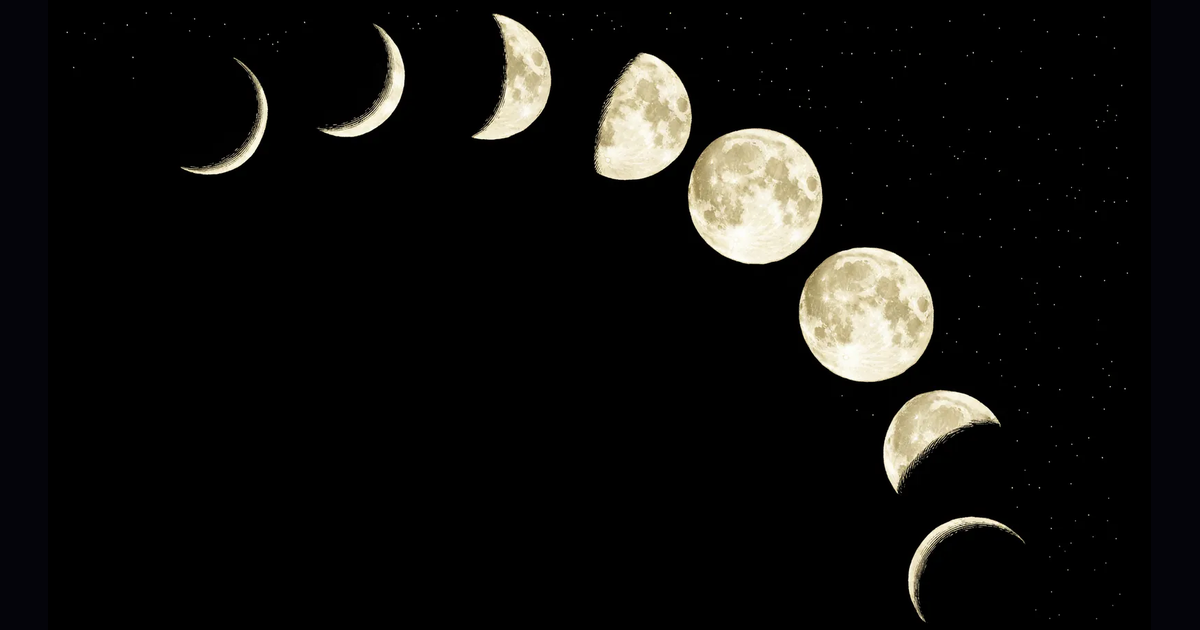
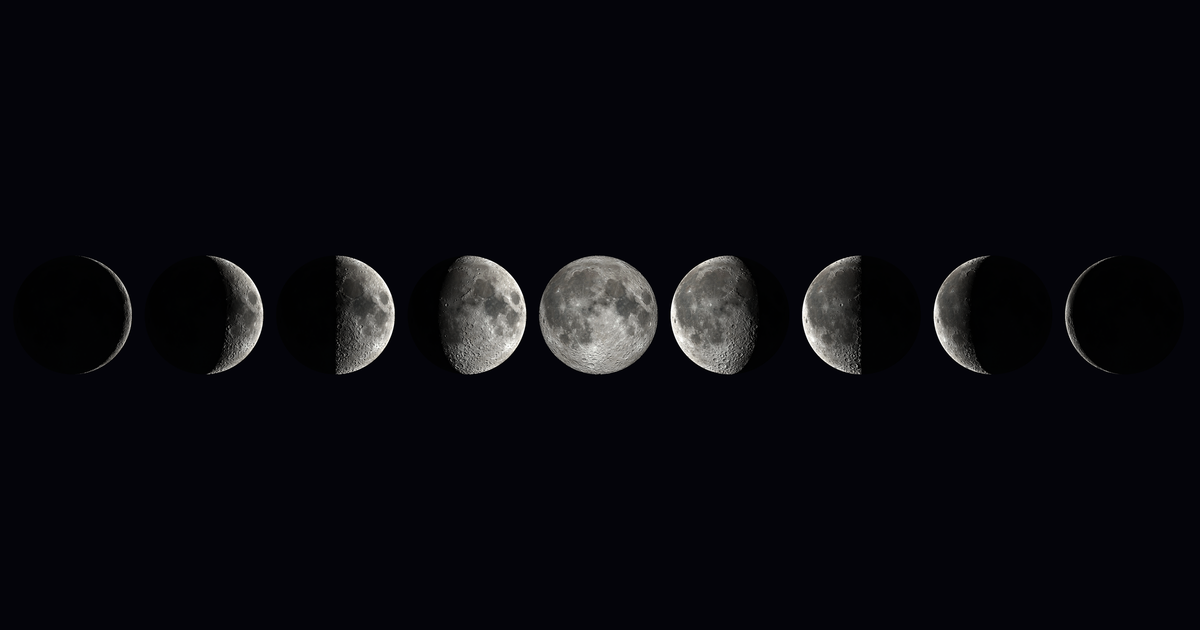
Moon phases cover: real phases rendered from LRO data instead of AI engraving; alt text in 8 languages

diff --git a/articles/moon-phases/ru.md b/articles/moon-phases/ru.md
@@ -7,7 +7,7 @@ description: Почему Луна бывает серпом, половинко
 author: Aurelia.Lab
 updated: 2026-11-16
 cover: cover.webp
-coverAlt: Фазы Луны от тонкого растущего серпа до полнолуния и обратно, гравюра в стиле старинного атласа
+coverAlt: Фазы Луны от растущего серпа через полнолуние до убывающего серпа, отрисованные Moonplan по данным камеры LRO
 figures:
   - id: phases-orbit
     kind: svg

diff --git a/articles/moon-phases/fr.md b/articles/moon-phases/fr.md
@@ -7,7 +7,7 @@ description: Pourquoi la Lune apparaît en croissant, en demi-disque ou en disqu
 author: Aurelia.Lab
 updated: 2026-11-16
 cover: cover.webp
-coverAlt: Les phases de la Lune, du fin croissant à la pleine Lune et retour, gravées dans le style d'un ancien atlas céleste
+coverAlt: Les phases de la Lune, du premier croissant à la pleine Lune puis au dernier croissant, rendues par Moonplan à partir des données de la caméra de LRO
 figures:
   - id: phases-orbit
     kind: svg

diff --git a/articles/moon-phases/de.md b/articles/moon-phases/de.md
@@ -7,7 +7,7 @@ description: Warum der Mond als Sichel, als Halbkreis und als volle Scheibe ersc
 author: Aurelia.Lab
 updated: 2026-11-16
 cover: cover.webp
-coverAlt: Die Phasen des Mondes von der schmalen zunehmenden Sichel bis zum Vollmond und zurück, gestochen im Stil eines alten Sternatlas
+coverAlt: Die Mondphasen von der zunehmenden Sichel über den Vollmond bis zur abnehmenden Sichel, von Moonplan aus Daten der LRO-Kamera berechnet
 figures:
   - id: phases-orbit
     kind: svg

diff --git a/articles/moon-phases/it.md b/articles/moon-phases/it.md
@@ -7,7 +7,7 @@ description: Perché la Luna appare come una falce, una metà o un disco intero,
 author: Aurelia.Lab
 updated: 2026-11-16
 cover: cover.webp
-coverAlt: Le fasi della Luna, dalla sottile falce crescente alla Luna piena e ritorno, incise nello stile di un antico atlante celeste
+coverAlt: Le fasi della Luna dalla falce crescente alla Luna piena fino alla falce calante, ricostruite da Moonplan con i dati della camera di LRO
 figures:
   - id: phases-orbit
     kind: svg

diff --git a/articles/moon-phases/es.md b/articles/moon-phases/es.md
@@ -7,7 +7,7 @@ description: Por qué la Luna se ve como un creciente, una mitad o un disco comp
 author: Aurelia.Lab
 updated: 2026-11-16
 cover: cover.webp
-coverAlt: Las fases de la Luna, del creciente fino a la luna llena y de vuelta, grabadas al estilo de un atlas estelar antiguo
+coverAlt: Las fases de la Luna, de creciente a llena y a menguante, representadas por Moonplan a partir de datos de la cámara del LRO
 figures:
   - id: phases-orbit
     kind: svg

diff --git a/articles/moon-phases/en.md b/articles/moon-phases/en.md
@@ -7,7 +7,7 @@ description: Why the Moon shows a crescent, a half and a full disc, how the syno
 author: Aurelia.Lab
 updated: 2026-11-16
 cover: cover.webp
-coverAlt: The phases of the Moon from a thin waxing crescent to full and back, engraved in the style of an old star atlas
+coverAlt: The phases of the Moon from waxing crescent through full Moon to waning crescent, rendered by Moonplan from LRO camera data
 figures:
   - id: phases-orbit
     kind: svg

diff --git a/articles/moon-phases/pt-br.md b/articles/moon-phases/pt-br.md
@@ -7,7 +7,7 @@ description: Por que a Lua aparece como um crescente, uma metade ou um disco int
 author: Aurelia.Lab
 updated: 2026-11-16
 cover: cover.webp
-coverAlt: As fases da Lua, do crescente fino à Lua cheia e de volta, gravadas no estilo de um antigo atlas estelar
+coverAlt: As fases da Lua do crescente à cheia e ao minguante, desenhadas pelo Moonplan a partir de dados da câmera do LRO
 figures:
   - id: phases-orbit
     kind: svg
